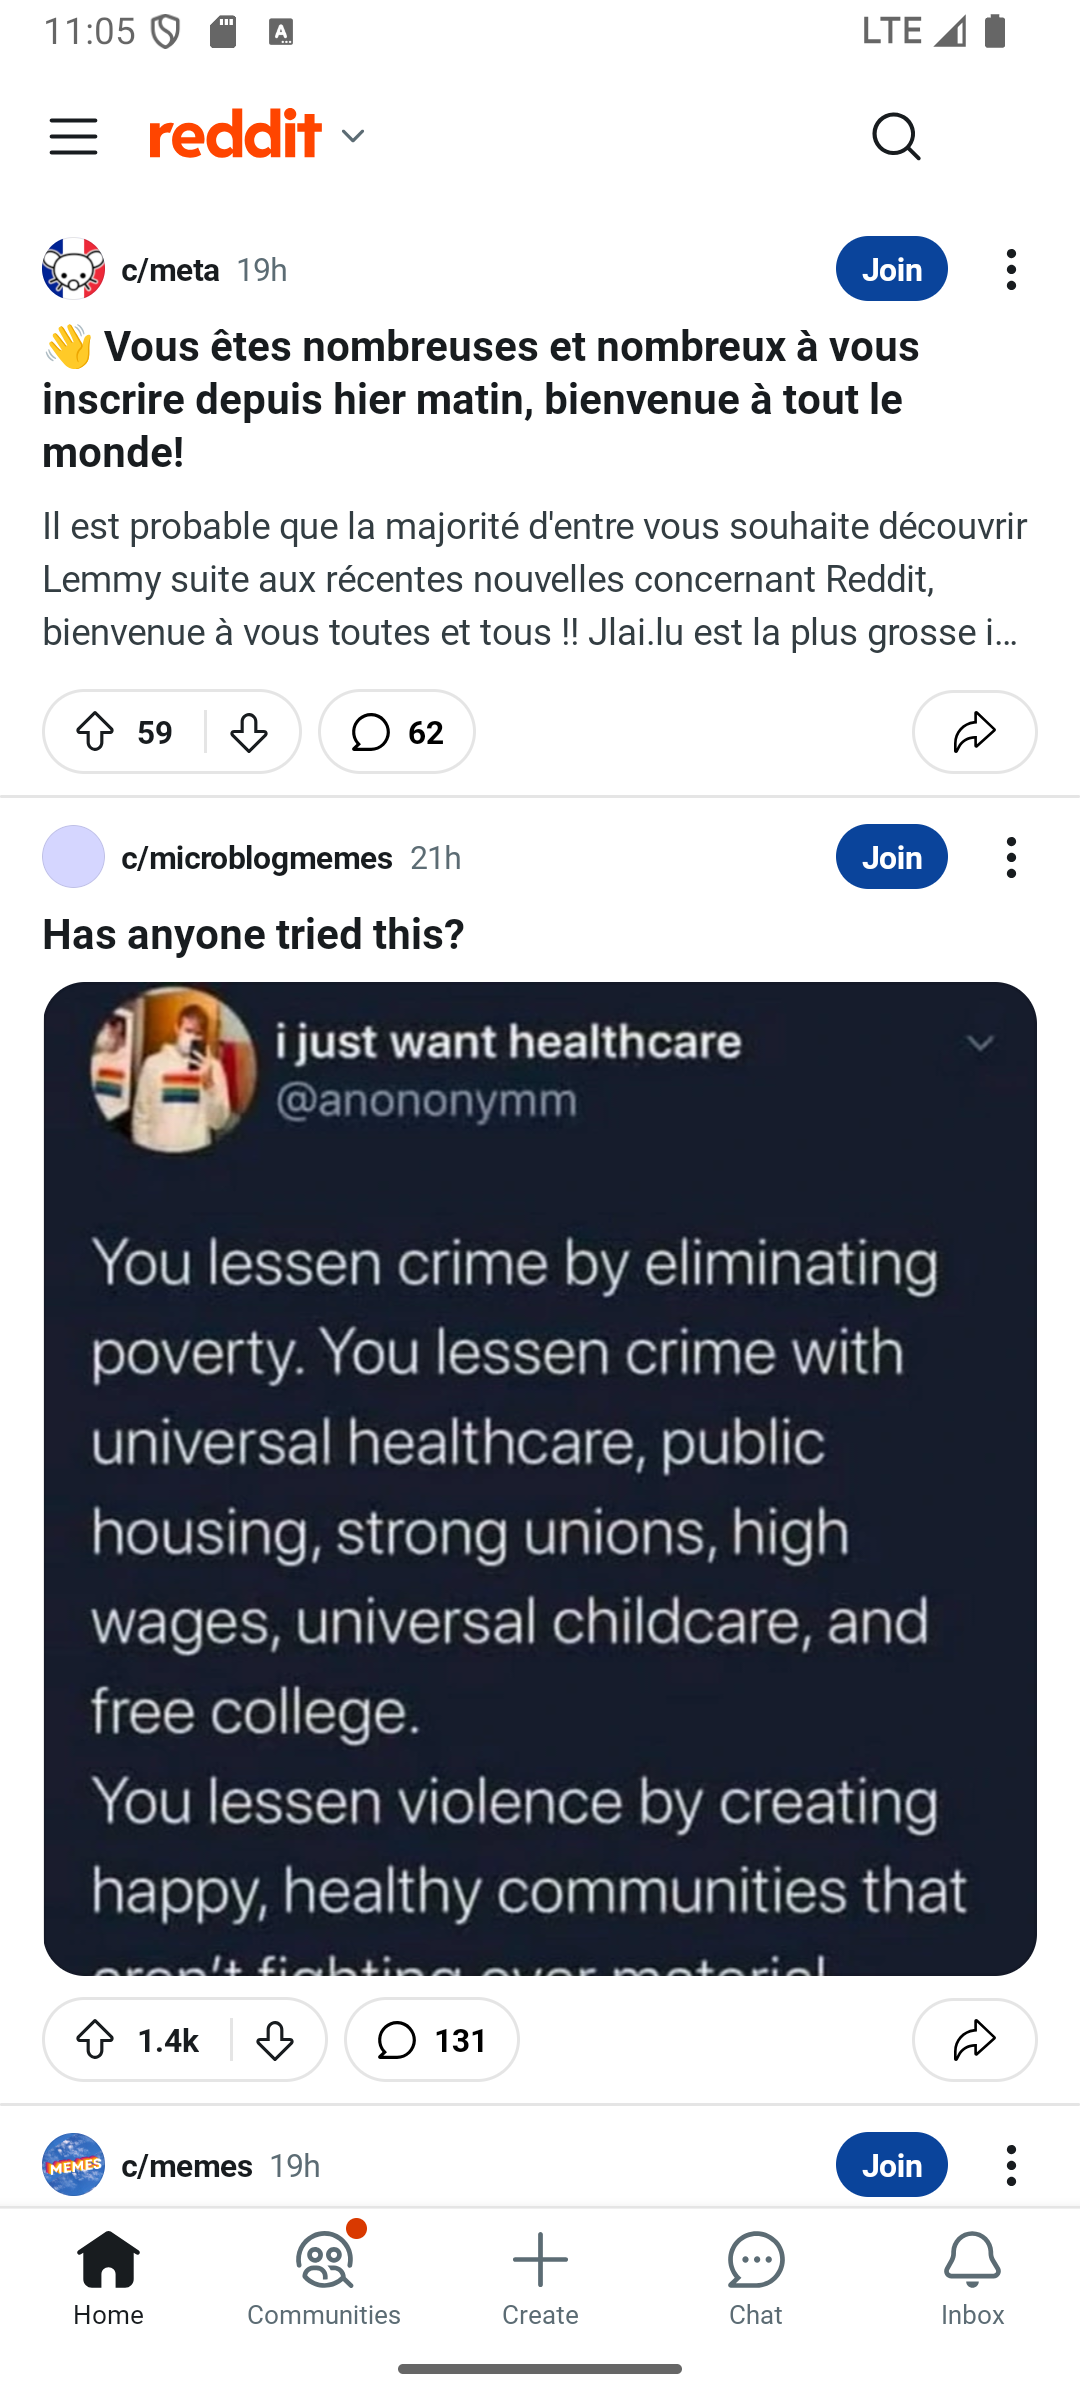
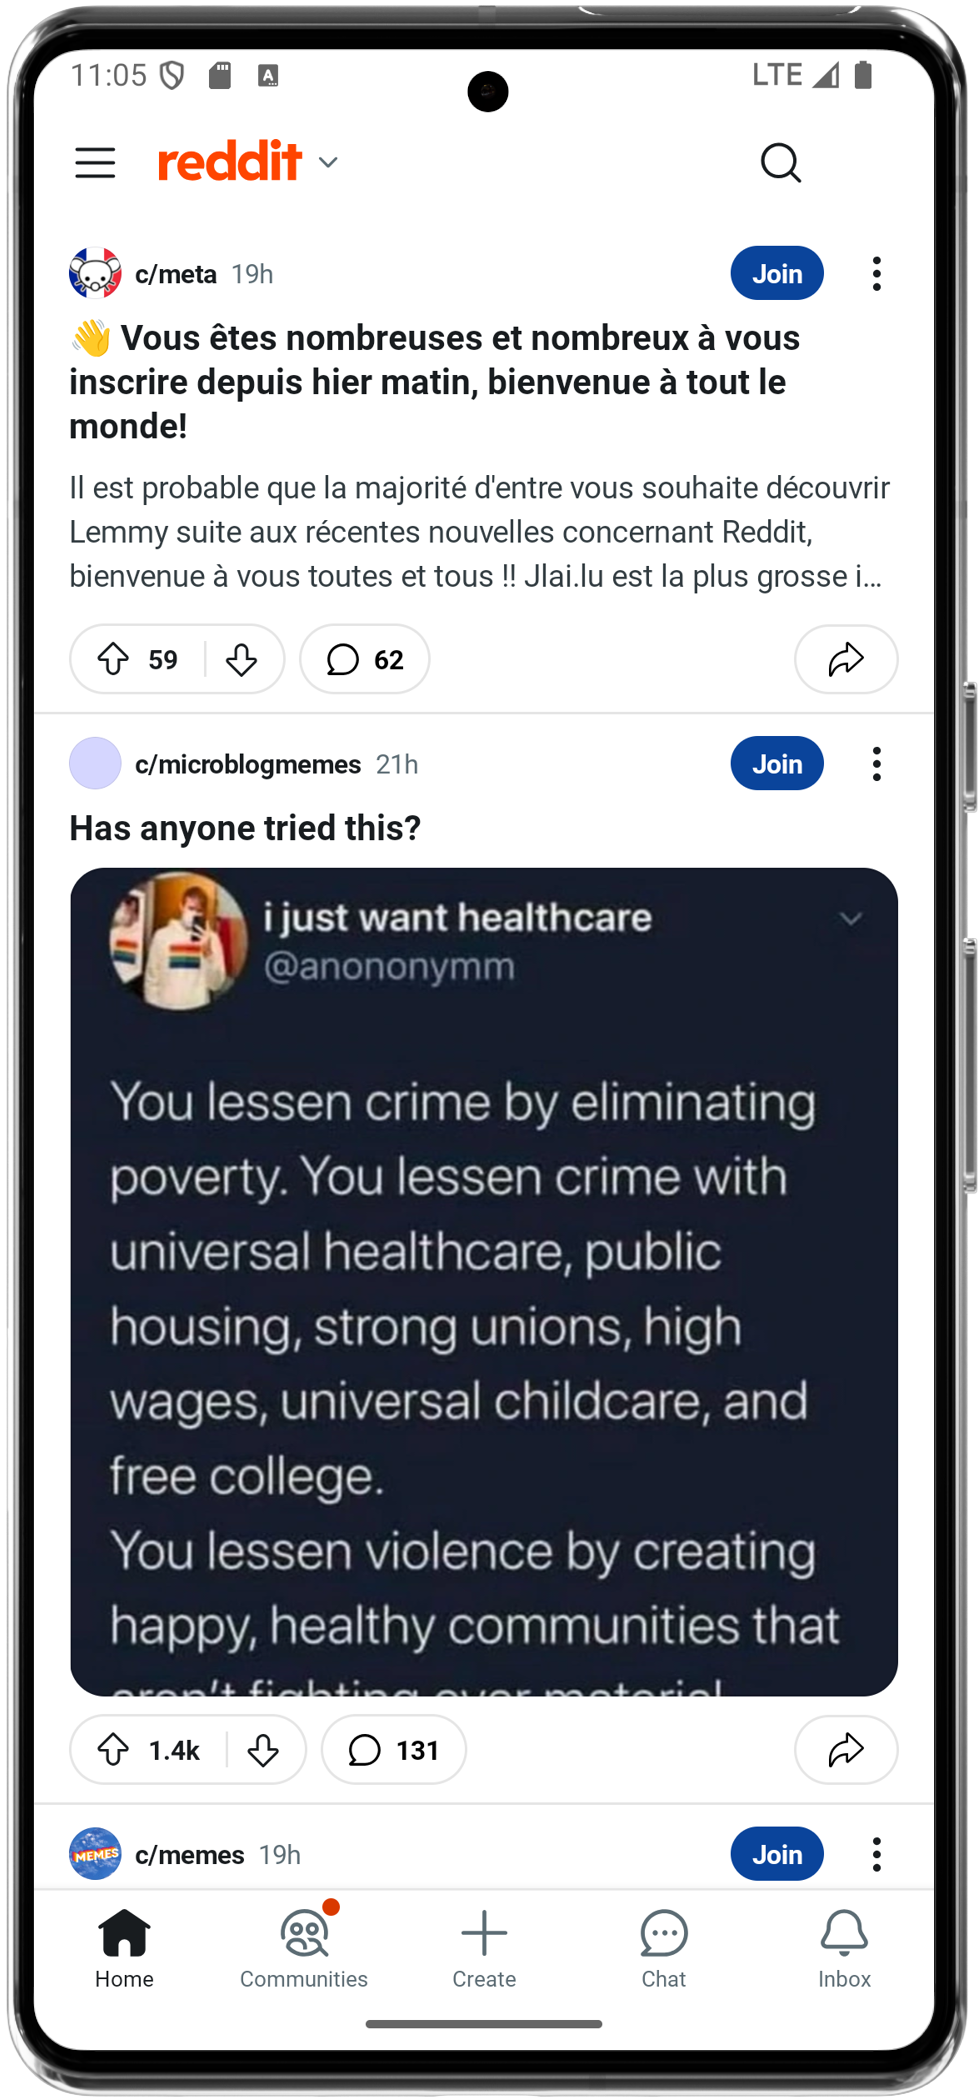
Update screenshots

diff --git a/README.md b/README.md
@@ -6,6 +6,8 @@ This allows using the official Reddit mobile app to browse [Lemmy, its federated
 
 Why? Because fuck spez
 
+<!-- Generate mockups with https://mockuphone.com/model/google-pixel-8/ -->
+
 <p align="center">
   <img src=".github/screenshot-home.png" alt="home feed screenshot" width="30%">
   <img src=".github/screenshot-search.png" alt="search screenshot" width="30%">
